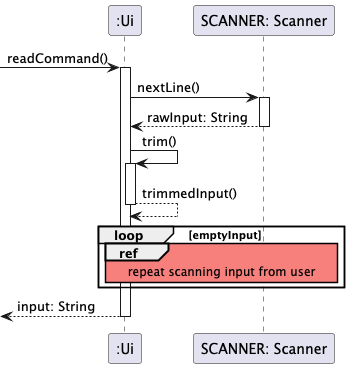
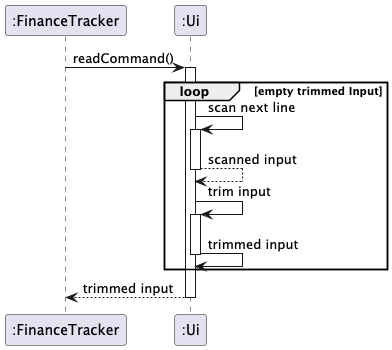
update sequence diagram for command class, ui

diff --git a/docs/DeveloperGuide.md b/docs/DeveloperGuide.md
@@ -108,7 +108,8 @@ The `UI` component consists of Ui class, which handles user interactions by read
 This serves as the main interface for communication between user and the Finance Tracker application
 Some method details of Ui class is noted as below:  
 * `public void showWelcome()`: print out the welcome message for the user at the launch of application.
-* `publc String readCommand()`: read the command entered by the user using Scanner object and return the input.
+* `publc String readCommand()`: read the command entered by the user using Scanner object and return the input. If the user's input without trailing/ leading spaces is empty, the Ui will wait until non-empty input is scanned and then return it as demonstrated by sequence diagram below:
+ ![Ui read command sequence](images/Ui_readCommandSequence.png)
 * `public void printError(String error)`: print out the error message for user by passing the string error message.
 * `public void printMessage(String message)`: print out the message as a String for user.  
 The example sequence diagram below shows how `Ui` prints messages/ errors after the `Command` execution  
